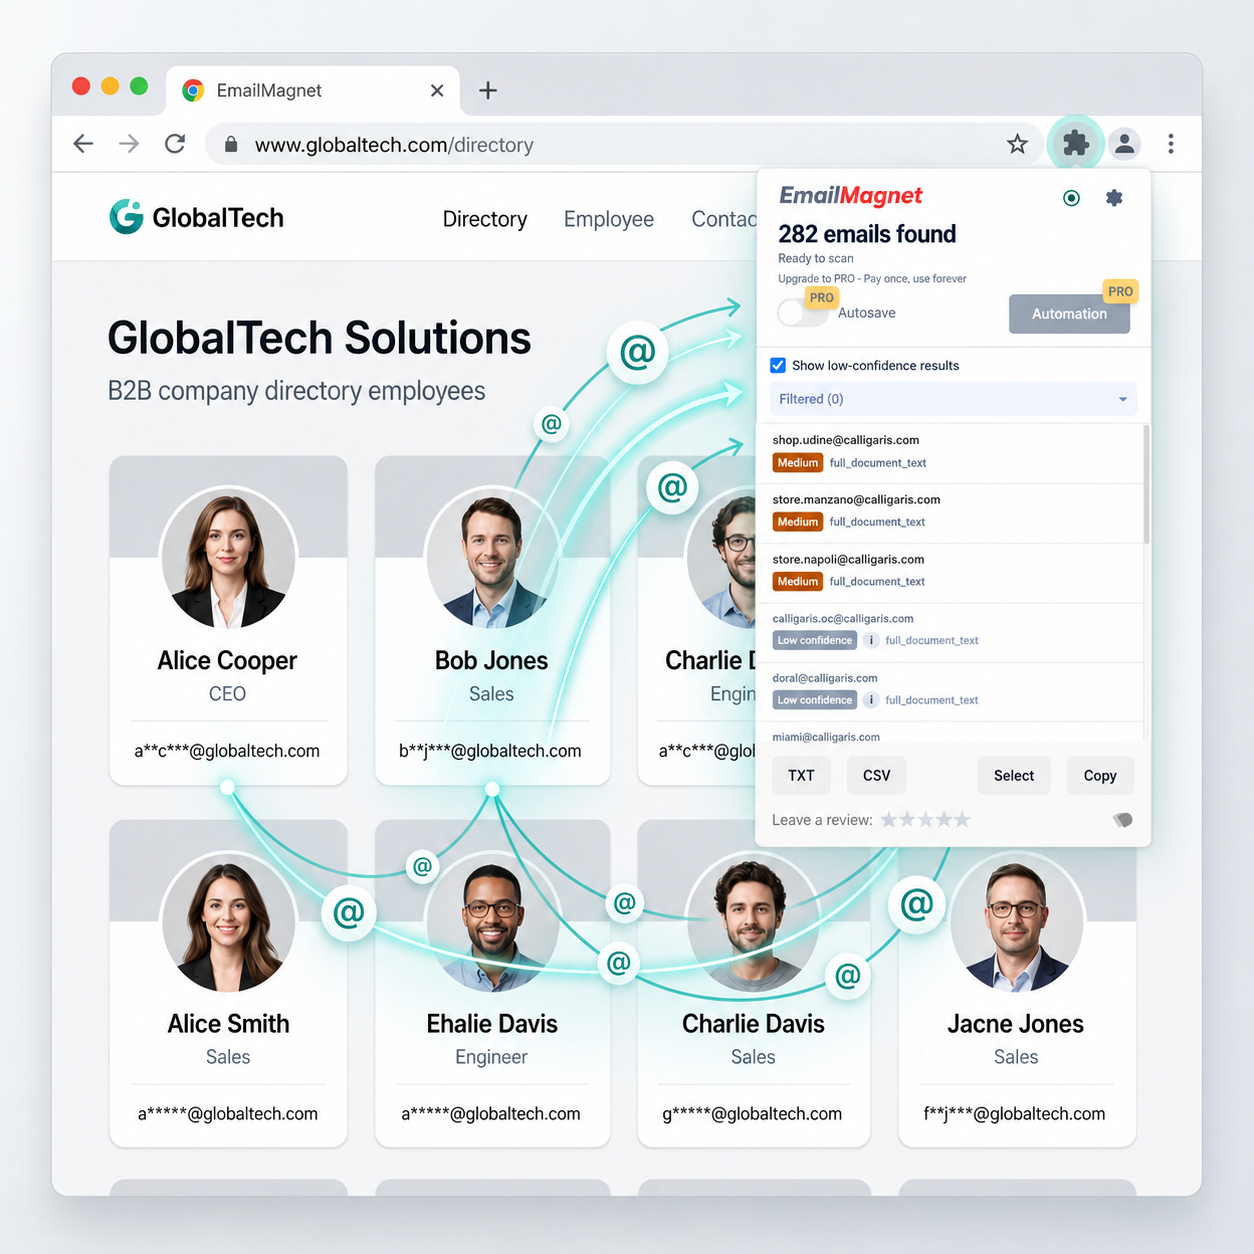
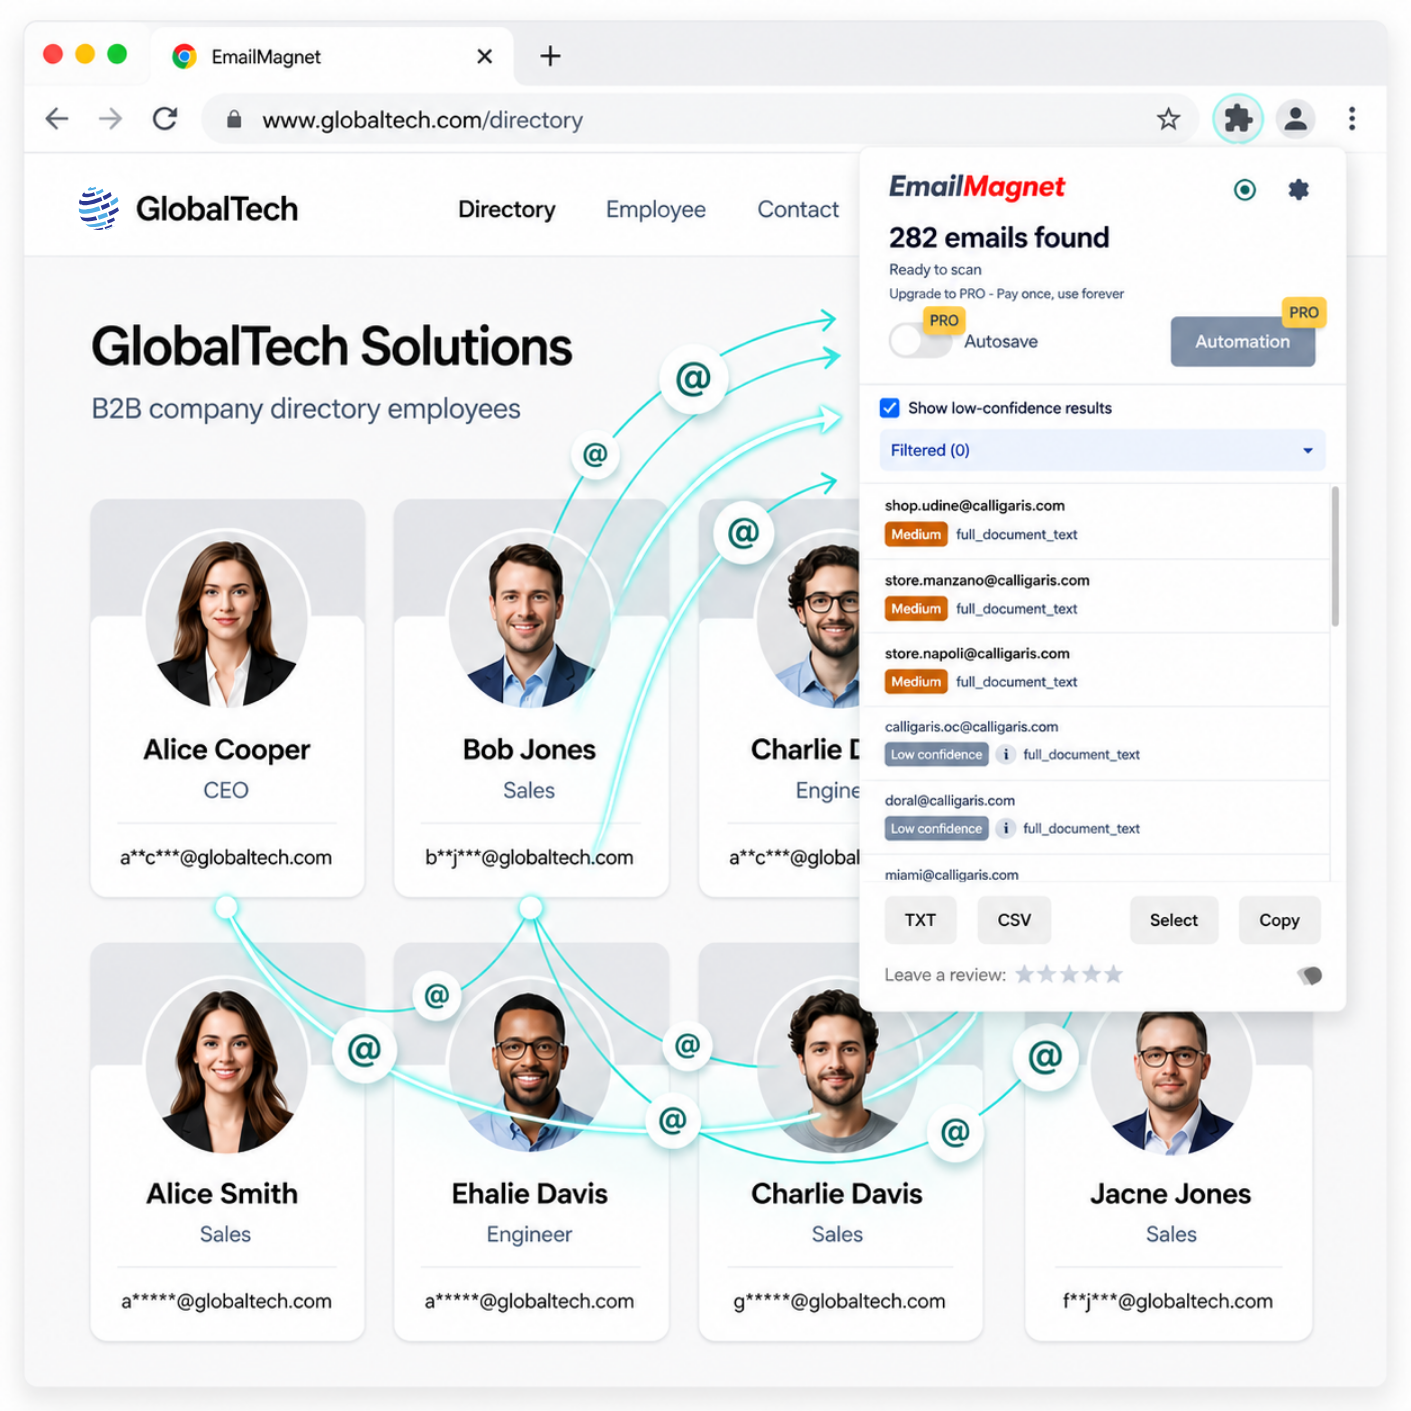
Refresh EmailMagnet visuals and align product cards

diff --git a/src/app/page.tsx b/src/app/page.tsx
@@ -268,14 +268,14 @@ export default function Home() {
             {productPortfolio
               .filter((product) => !product.featured)
               .map((product) => (
-                <div key={product.href} className="rounded-xl border border-teal-100 bg-white p-6">
+                <div key={product.href} className="flex h-full flex-col rounded-xl border border-teal-100 bg-white p-6">
                   <div className="flex items-center justify-between gap-4">
                     <h2 className="text-xl font-semibold text-slate-950">{product.name}</h2>
                     <span className="inline-flex items-center gap-1 rounded-full bg-slate-100 px-3 py-1 text-xs font-semibold text-slate-600">
                       {product.category}
                     </span>
                   </div>
-                  <p className="mt-3 leading-7 text-slate-600">{product.description}</p>
+                  <p className="mt-3 flex-1 leading-7 text-slate-600">{product.description}</p>
                   <Link
                     href={product.href}
                     className="mt-5 inline-flex text-sm font-semibold text-[#c43618] hover:underline"

diff --git a/src/app/emailmagnet/page.tsx b/src/app/emailmagnet/page.tsx
@@ -93,8 +93,8 @@ export default function EmailMagnetPage() {
             <Image
               src="/brand/emailmagnet-hero-new.png"
               alt="EmailMagnet Chrome extension interface"
-              width={1210}
-              height={757}
+              width={1586}
+              height={992}
               className="h-auto w-full"
               priority
             />
@@ -126,8 +126,8 @@ export default function EmailMagnetPage() {
             <Image
               src="/brand/emailmagnet-directory-showcase.png"
               alt="EmailMagnet extension extracting emails from a company directory page"
-              width={1254}
-              height={1254}
+              width={1411}
+              height={1411}
               className="h-auto w-full"
             />
           </div>
